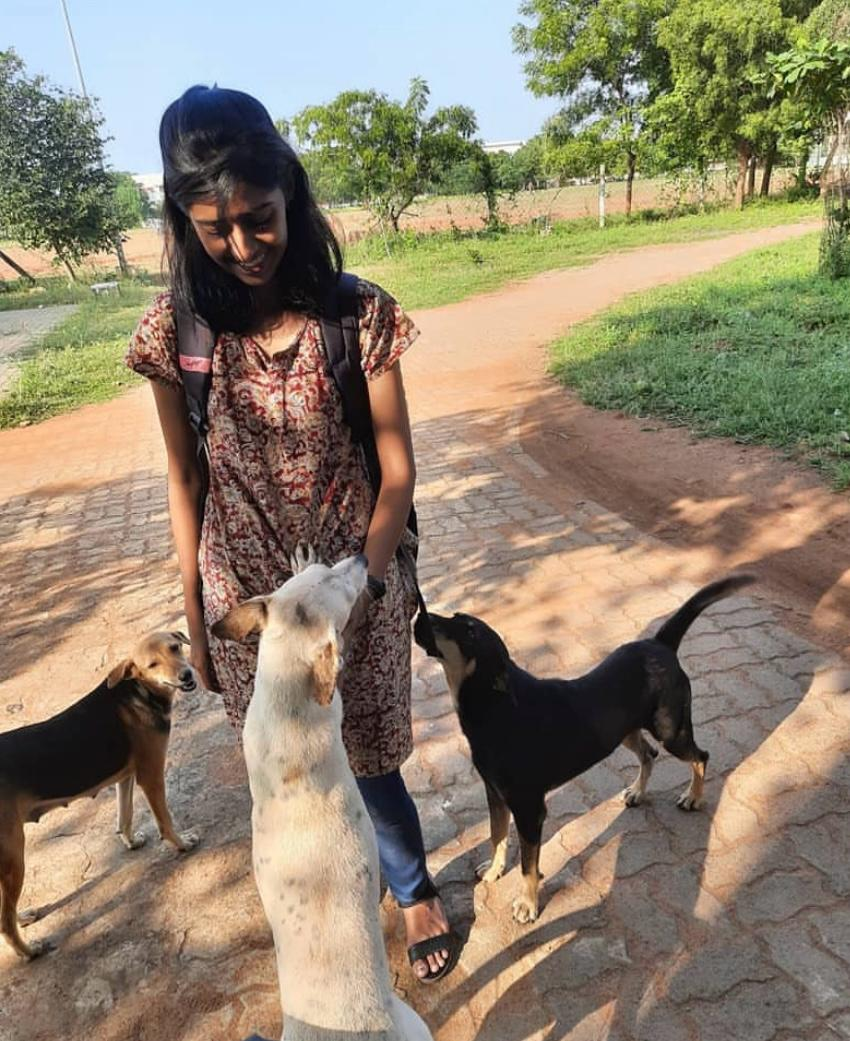
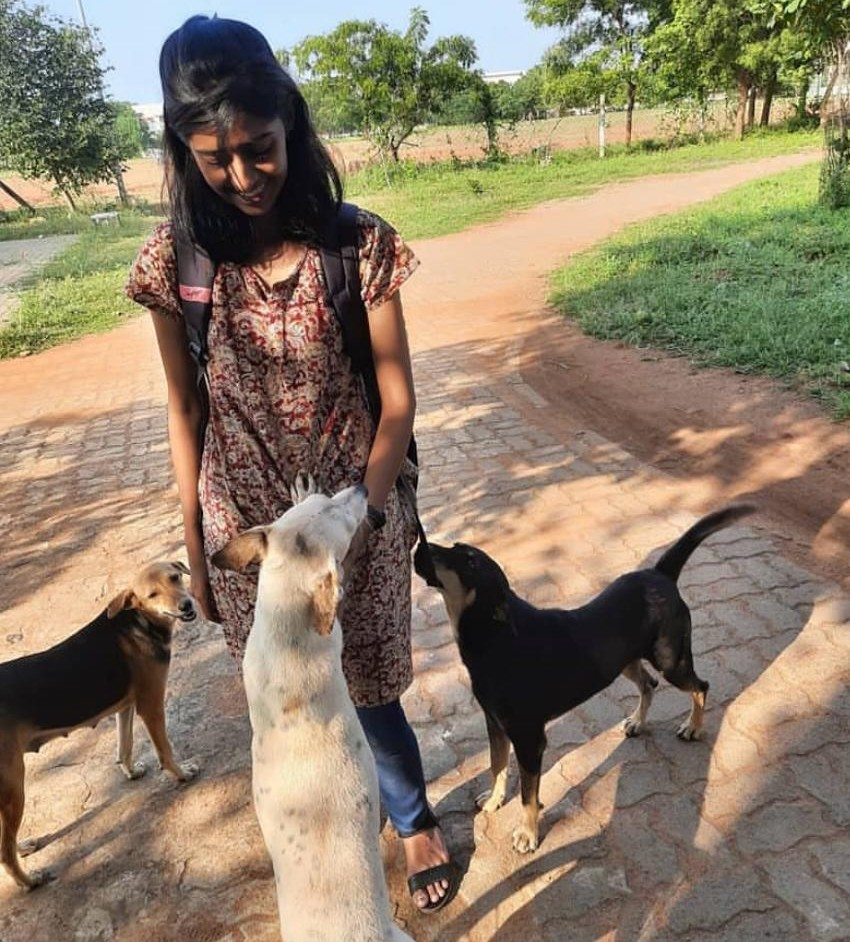
Fix image ratio issue

diff --git a/src/components/Education/Education.js b/src/components/Education/Education.js
@@ -6,83 +6,91 @@ function Education() {
             <h2 className="heading" id="education">Education</h2><hr/>
             <div className="d-flex justify-content-between">
                 <div className="d-flex">
-                <img src="/assets/images/logos/umass.png" alt="UMass Amherst" className="company-icon"/> 
-                <div className="d-flex ms-2">
-                    <h5>University of Massachusetts Amherst</h5>
-                </div>
+                    <img src="/assets/images/logos/umass.png" alt="UMass Amherst" className="company-icon"/> 
+                    <div className="d-flex ms-2">
+                        <h5>University of Massachusetts Amherst</h5>
+                    </div>
                 </div>
                 <em>Sep '22 - May '24</em>
             </div>
             <div className="container">
                 <div className="row">
-                <div className="col-6">
-                    <img src="/assets/images/university/umass.jpeg" alt="UMass Amherst" className="university-img left-align-media"/>
-                </div>
-                <div className="col-6">
-                    <div className="coursework">
-                    <b>Master of Science in Computer Science</b> (GPA: 3.83 / 4.0) <br/><br/>
-                    <b>Coursework:</b> Advanced Algorithms, Distributed and Operating Systems, Computer and Network Security, Theory and Practice of Software Engineering, System Defense and Test, Secure Distributed Systems, Machine Learning, Applied Information Retrieval, Systems for Data Science, Reinforcement Learning
+                    <div className="col-6">
+                        <div className="coursework">
+                            <b>Master of Science in Computer Science</b> (GPA: 3.83 / 4.0) <br/><br/>
+                            <b>Coursework:</b> Advanced Algorithms, Distributed and Operating Systems, Computer and Network Security, Theory and Practice of Software Engineering, System Defense and Test, Secure Distributed Systems, Machine Learning, Applied Information Retrieval, Systems for Data Science, Reinforcement Learning
+                        </div>
                     </div>
-                </div>
+                    <div className="col-6">
+                        <img src="/assets/images/university/umass.jpeg" alt="UMass Amherst" className="university-img right-align-media"/>
+                    </div>
                 </div>
             </div>
     
             <div className="d-flex justify-content-between">
                 <div className="d-flex">
-                <img src="/assets/images/logos/nitt.png" alt="NIT Trichy" className="company-icon" /> 
-                <div className="d-flex ms-2">
-                    <h5>National Institute of Technology Tiruchirappalli</h5>
-                </div>
+                    <img src="/assets/images/logos/nitt.png" alt="NIT Trichy" className="company-icon" /> 
+                    <div className="d-flex ms-2">
+                        <h5>National Institute of Technology Tiruchirappalli</h5>
+                    </div>
                 </div>
                 <em>July '16 - Jun '20</em>
             </div>
             <div className="container">
                 <div className="row">
-                <div className="col-6">
-                    <div className="coursework">
-                    <b>Bachelor of Technology in Instrumentation and Control Engineering</b> (GPA: 8.41 / 10.0)
-                    <br/><br/>
-                    <b>Minor in Computer Science and Engineering</b> (GPA: 8.6 / 10.0)
-                    <br/><br/>
-                    <b>Coursework:</b> Data Structures and Algorithms, Operating Systems, Database Management System, Computer Organization, Software Engineering, Big Data Analytics, Neural Networks and Fuzzy Logic, Digital Electronics, Microprocessors and Microcontrollers
+                    <div className="col-6">
+                        <div className="coursework">
+                            <b>Bachelor of Technology in Instrumentation and Control Engineering</b> (GPA: 8.41 / 10.0)
+                            <br/><br/>
+                            <b>Minor in Computer Science and Engineering</b> (GPA: 8.6 / 10.0)
+                            <br/><br/>
+                            <b>Coursework:</b> Data Structures and Algorithms, Operating Systems, Database Management System, Computer Organization, Software Engineering, Big Data Analytics, Neural Networks and Fuzzy Logic, Digital Electronics, Microprocessors and Microcontrollers
+                            <br/><br/>
+                            <b>Positions of Responsibility:</b>
+                            <br/>
+                            Manager of Public Relations and Logistics, Festember <br/>
+                            Manager of Public Relations and Logistics, Pragyan <br/>
+                            Publicity Cordinator of Sensors <br/>
+                            Member of Tamil Mandram <br/>
+                            Member of Animal Welfare Club
+                        </div>
                     </div>
-                </div>
-                <div className="col-6">
-                    <img src="/assets/images/university/nitt.jpeg" alt="NIT Trichy" className="university-img-portrait"/>
-                </div>
+                    <div className="col-6">
+                        <img src="/assets/images/university/nitt.jpeg" alt="NIT Trichy" className="university-img-portrait right-align-media"/>
+                    </div>
                 </div>
             </div>
     
             <div className="d-flex justify-content-between">
                 <div className="d-flex">
-                <img src="/assets/images/logos/jawahar.png" alt="Jawahar" className="company-icon" /> 
-                <div className="d-flex ms-2">
-                    <h5>Jawahar Higher Secondary School (CBSE) Neyveli</h5>
-                </div>
+                    <img src="/assets/images/logos/jawahar.png" alt="Jawahar" className="company-icon" /> 
+                    <div className="d-flex ms-2">
+                        <h5>Jawahar Higher Secondary School (CBSE) Neyveli</h5>
+                    </div>
                 </div>
                 <em>Jun '14 - May '16</em>
             </div>
             <div className="container">
                 <div className="row">
-                <div className="col-6">
-                    <img src="/assets/images/university/high-school.jpg" alt="Jawahar" className="university-img left-align-media"/>
-                </div>
-                <div className="col-6">
-                    <div className="coursework">
-                    94.8% in CBSE board examination conducted in 2016 and received Academic Achievement Award for the same <br/><br/>
-                    Secured an All India Rank of 9858 among 1.2 million students in JEE Mains 2016 <br/><br/>
-                    <b>Coursework:</b> Computer Science, Mathematics, Physics, Chemistry, English
+                    <div className="col-6">
+                        <div className="coursework">
+                            94.8% in CBSE board examination conducted in 2016 and received Academic Achievement Award for the same <br/><br/>
+                            Secured an All India Rank of 9858 among 1.2 million students in JEE Mains 2016 <br/><br/>
+                            <b>Coursework:</b> Computer Science, Mathematics, Physics, Chemistry, English
+                        </div>
                     </div>
-                </div>
+                    <div className="col-6">
+                        <img src="/assets/images/university/high-school.jpg" alt="Jawahar" className="university-img right-align-media"/>
+                    </div>
                 </div>
             </div>
 
             <h2 className="" id="academic">Academic Experience</h2><hr/>
             <div className="d-flex justify-content-between">
-            <div className="d-flex">    
-                <h5 className="pe-1">Grading Assistant </h5> - CS 520: Theory and Practice of Software Engineering
-            </div>
-            <em>Feb '24 - May '24</em>
+                <div className="d-flex">    
+                    <h5 className="pe-1">Grading Assistant </h5> - CS 520: Theory and Practice of Software Engineering
+                </div>
+                <em>Feb '24 - May '24</em>
             </div>
         </div>
     );

diff --git a/src/components/Social/Social.js b/src/components/Social/Social.js
@@ -9,25 +9,25 @@ function Social() {
                 One of my favorite authors is Robert Dugoni and I am a few books away from completing all his books. I am also a huge fan of legal thrillers of Michael Connelly and John Grisham. Every year I participate in the Goodreads reading challenge and one of my proudest years is 2021 when I read 61 books. Being a huge fan of the Lord of the Rings movies, I am currently reading the Tolkien's Lord of the Rings Trilogy.
             </p>
             <div className="social-pics-div">
-                <img className="social-pics-l" alt="2021 reading challenge" src="/assets/images/social/2021-reading.png"/>
-                <img className="social-pics-p" alt="Jane Austen award" src="/assets/images/social/jane-austen-award.jpeg"/>
+                <img className="social-pics" alt="2021 reading challenge" src="/assets/images/social/2021-reading.png"/>
+                <img className="social-pics" alt="Jane Austen award" src="/assets/images/social/jane-austen-award.jpeg"/>
             </div>
             <p>
                 I <span className="heart">&#9829;</span> dogs and most animals. I grew up playing with and helping the needy stray dogs in my hometown Neyveli. As I matured, I realized the sufferings they endured on the streets and set out on a campaign for adoption of as many of the dogs as possible. Ever since, I have been an active monetary contributor and supporter of the Animal Birth Control (ABC) campaign. When I joined my undergraduate degree, I saw much of the same suffering there as well. A few of us like minded people at the university decided to start an Animal Welfare Club at the university which aimed at feeding, vaccinating and providing health care for stray animals in the area. With funds from many such enthusiasts at the university which included professors as well, we were able to install water pots in the area. With the generous contribution from BowChow SuperDog, we were able to feed nutritious food to the dogs at the university. Below are the pictures of me with my team and my furry friends. 
             </p>
             <div className="social-pics-div">
-                <img className="social-pics-p" alt="archana with dogs" src="/assets/images/social/archana-dogs.jpeg"/>
-                <img className="social-pics-l" alt="animal welfare club" src="/assets/images/social/animal-welfare-club.jpg"/>
+                <img className="social-pics" alt="archana with dogs" src="/assets/images/social/archana-dogs.jpeg"/>
+                <img className="social-pics" alt="animal welfare club" src="/assets/images/social/animal-welfare-club.jpg"/>
             </div>
             <p>
                 I am amazed by <span>&#129429;</span> and am a huge fan of the Jurassic Park and Jurassic World franchise. I visited the Dinosaur Footprints in Massachusetts which were left by some of the earliest known dinosaurs in the Connecticut River Valley region. Below is a picture of me at the historic area and at the North Carolina museum of natural sciences with a T-Rex. Also a picture of me with an Allosaurus at the American Museum of Natural History.
             </p>
             <div className="social-pics-div">
-                <img className="social-pics-p" alt="NC museum of natural science" src="/assets/images/social/nc-museum.jpeg"/>
-                <img className="social-pics-p" alt="dino footprint reservation" src="/assets/images/social/dino-footprint.jpeg"/>
+                <img className="social-pics" alt="NC museum of natural science" src="/assets/images/social/nc-museum.jpeg"/>
+                <img className="social-pics" alt="dino footprint reservation" src="/assets/images/social/dino-footprint.jpeg"/>
             </div>
             <div className="social-pics-div">
-                <img className="social-pics-l" alt="dino footprint reservation" src="/assets/images/social/archana-american-museum.jpeg"/>
+                <img className="social-pics" alt="dino footprint reservation" src="/assets/images/social/archana-american-museum.jpeg"/>
             </div>
         </div>
     );

diff --git a/src/components/Social/Social.css b/src/components/Social/Social.css
@@ -4,14 +4,8 @@
     align-items: center;
 }
   
-.social-pics-p {
-    width: 425px;
-    height: 500px;
-    margin: 10px 30px 5px 0px;
-}
-
-.social-pics-l {
+.social-pics {
     width: 475px;
-    height: 400px;
+    height: 490px;
     margin: 10px 30px 5px 0px;
 }

diff --git a/src/components/Education/Education.css b/src/components/Education/Education.css
@@ -5,8 +5,8 @@
 
 .university-img-portrait {
     margin: 20px 0px 10px 100px;
-    width: 250px;
-    height: 300px;
+    width: 400px;
+    height: 475px;
 }
   
 .university-img {
